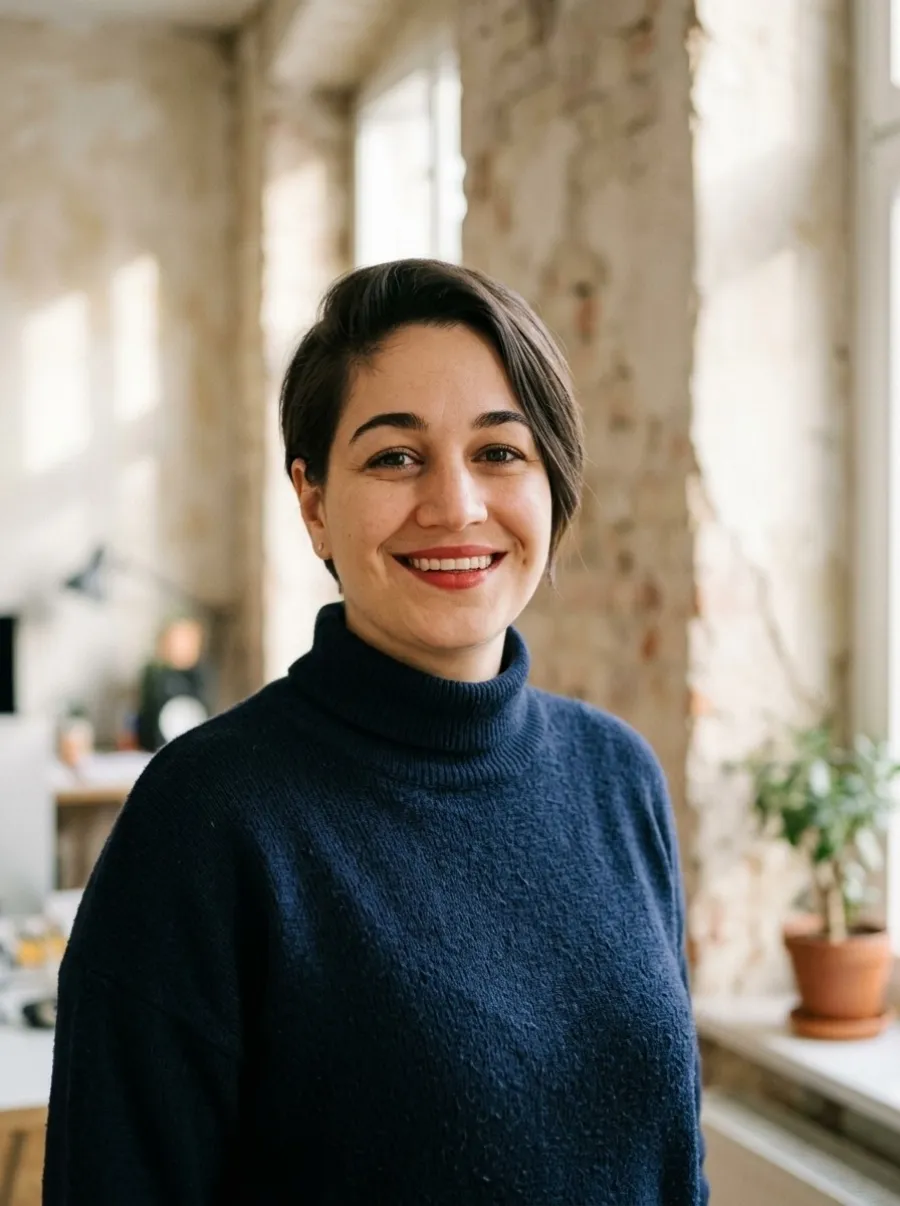
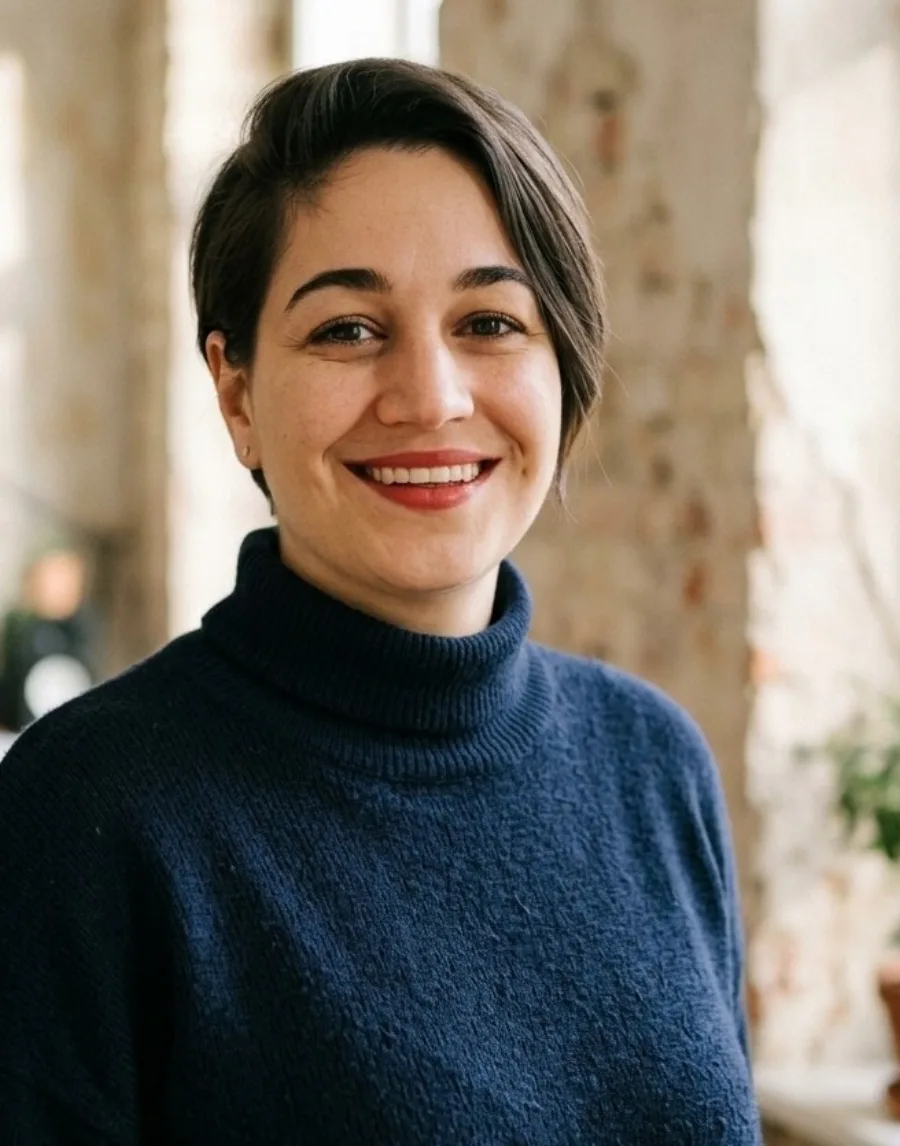
feat: endless marquee, tighter about layout

diff --git a/src/styles/about.css b/src/styles/about.css
@@ -1,12 +1,14 @@
-main > section.about { display: grid; grid-template-columns: 1fr minmax(320px, 470px); align-items: stretch; }
-.about__l { align-self: center; }
-.about__l { padding: 60px var(--gutter); }
-.about__title { font-size: clamp(64px, 10vw, 110px); }
-.about__title span { box-shadow: inset 0 -14px 0 var(--lime); }
-.about__bio { font-size: 19px; line-height: 1.45; margin: 34px 0 30px; max-width: 470px; }
-.about__facts { max-width: 560px; }
+/* Text and photo share one centered container so they stay close on wide screens */
+.about__inner { width: 100%; max-width: 1240px; margin: 0 auto; padding: 72px var(--gutter); display: grid; grid-template-columns: minmax(0, 1fr) minmax(320px, 440px); column-gap: 64px; align-items: center; }
+.about__title { font-size: clamp(64px, 10vw, 110px); line-height: 1; }
+.about__title span { display: inline-block; line-height: 1; box-shadow: inset 0 -14px 0 var(--lime); }
+.about__bio { font-size: 19px; line-height: 1.45; margin: 40px 0 30px; max-width: 560px; }
+.about__facts { max-width: 600px; }
 .about__facts div { display: grid; grid-template-columns: 120px 1fr; border-bottom: 1.5px solid var(--ink); padding: 9px 0; font-size: 18px; }
-.about__r { background: var(--ink); display: flex; align-items: center; justify-content: center; padding: 40px; }
-.about__photo { width: min(330px, 100%); aspect-ratio: 330 / 420; object-fit: cover; border: 2px solid #fff; filter: grayscale(1) contrast(1.1); }
-/* Same specificity as the grid rule above, so the single column wins on mobile */
-@media (max-width: 760px) { main > section.about { grid-template-columns: 1fr; } .about__r { padding: 32px var(--gutter); } }
+/* Black block around the photo only, offset lime shadow like the cards */
+.about__r { background: var(--ink); padding: 20px; box-shadow: var(--shadow); justify-self: end; width: 100%; max-width: 440px; }
+.about__photo { display: block; width: 100%; aspect-ratio: 656 / 835; object-fit: cover; object-position: center top; border: 2px solid #fff; filter: grayscale(1) contrast(1.1); }
+@media (max-width: 760px) {
+  .about__inner { grid-template-columns: 1fr; row-gap: 40px; padding: 48px var(--gutter); }
+  .about__r { justify-self: start; max-width: 360px; }
+}

diff --git a/index.html b/index.html
@@ -47,16 +47,18 @@
     <div class="marquee" aria-hidden="true"><div class="marquee__run disp"></div></div>
 
     <section class="about" id="about">
-      <div class="about__l">
-        <h2 class="about__title disp"><span data-i18n="about.title">About me:</span></h2>
-        <p class="about__bio" data-i18n="about.bio"></p>
-        <dl class="about__facts">
-          <div><dt class="mono" data-i18n="about.based">Based in</dt><dd data-i18n="about.basedValue"></dd></div>
-          <div><dt class="mono" data-i18n="about.doing">Doing</dt><dd data-i18n="about.doingValue"></dd></div>
-          <div><dt class="mono" data-i18n="about.speaks">Speaks</dt><dd data-i18n="about.speaksValue"></dd></div>
-        </dl>
+      <div class="about__inner">
+        <div class="about__l">
+          <h2 class="about__title disp"><span data-i18n="about.title">About me:</span></h2>
+          <p class="about__bio" data-i18n="about.bio"></p>
+          <dl class="about__facts">
+            <div><dt class="mono" data-i18n="about.based">Based in</dt><dd data-i18n="about.basedValue"></dd></div>
+            <div><dt class="mono" data-i18n="about.doing">Doing</dt><dd data-i18n="about.doingValue"></dd></div>
+            <div><dt class="mono" data-i18n="about.speaks">Speaks</dt><dd data-i18n="about.speaksValue"></dd></div>
+          </dl>
+        </div>
+        <div class="about__r"><img class="about__photo" src="./media/lou_portrait.webp" alt="Lou Gastardi"></div>
       </div>
-      <div class="about__r"><img class="about__photo" src="./media/lou_portrait.webp" alt="Lou Gastardi"></div>
     </section>
   </main>
   <script type="module" src="/src/main.js"></script>

diff --git a/src/sections/marquee.js b/src/sections/marquee.js
@@ -1,0 +1,32 @@
+// Endless marquee. One "set" holds every keyword once. A half repeats the set until
+// it is wider than the viewport, the track holds two identical halves and slides by -50%,
+// so the loop point lands on a copy of the start and nothing jumps.
+const SPEED = 80 // px per second
+
+export function initMarquee(track, getItems) {
+  const setHtml = () => `<span class="marquee__set">${getItems().map(w => `<em>${w}</em><i>◆</i>`).join('')}</span>`
+
+  const build = () => {
+    const set = setHtml()
+    track.innerHTML = `<span class="marquee__half">${set}</span>`
+    const setW = track.firstElementChild.getBoundingClientRect().width || 1
+    const repeats = Math.max(1, Math.ceil(window.innerWidth / setW))
+    const half = `<span class="marquee__half">${set.repeat(repeats)}</span>`
+    track.innerHTML = half + half
+    track.style.setProperty('--marquee-dur', `${(setW * repeats) / SPEED}s`)
+  }
+
+  let lastW = window.innerWidth
+  let timer = 0
+  window.addEventListener('resize', () => {
+    // Height-only resizes (mobile URL bar) do not change the width we need
+    if (window.innerWidth === lastW) return
+    lastW = window.innerWidth
+    clearTimeout(timer)
+    timer = setTimeout(build, 150)
+  })
+  document.addEventListener('langchange', build)
+  // Anton loads async, its glyph widths change the set width
+  document.fonts?.ready.then(build)
+  build()
+}

diff --git a/src/main.js b/src/main.js
@@ -10,6 +10,7 @@ import { createI18n } from './i18n/i18n.js'
 import { reducedMotion } from './lib/prefs.js'
 import { initNav } from './sections/nav.js'
 import { initHero } from './sections/hero.js'
+import { initMarquee } from './sections/marquee.js'
 
 const i18n = createI18n({ en, de }, 'en')
 initNav(i18n)
@@ -17,10 +18,4 @@ initNav(i18n)
 const reduced = reducedMotion()
 initHero({ reduced })
 
-const fillMarquee = () => {
-  const items = (i18n.lang === 'de' ? de : en).marquee
-  const run = items.map(w => `<em>${w}</em>◆`).join('')
-  document.querySelector('.marquee__run').innerHTML = run + run
-}
-fillMarquee()
-document.addEventListener('langchange', fillMarquee)
+initMarquee(document.querySelector('.marquee__run'), () => (i18n.lang === 'de' ? de : en).marquee)

diff --git a/src/styles/marquee.css b/src/styles/marquee.css
@@ -1,5 +1,7 @@
 .marquee { background: var(--lime); border-block: var(--border); overflow: hidden; white-space: nowrap; padding: 12px 0; }
-.marquee__run { display: inline-block; font-size: 26px; animation: marquee 22s linear infinite; }
+.marquee__run { display: flex; width: max-content; font-size: 26px; animation: marquee var(--marquee-dur, 40s) linear infinite; will-change: transform; }
+.marquee__half, .marquee__set { display: flex; flex: none; }
 .marquee__run em { font-style: normal; margin: 0 22px; }
+.marquee__run i { font-style: normal; }
 @keyframes marquee { to { transform: translateX(-50%); } }
 @media (prefers-reduced-motion: reduce) { .marquee__run { animation: none; } }
